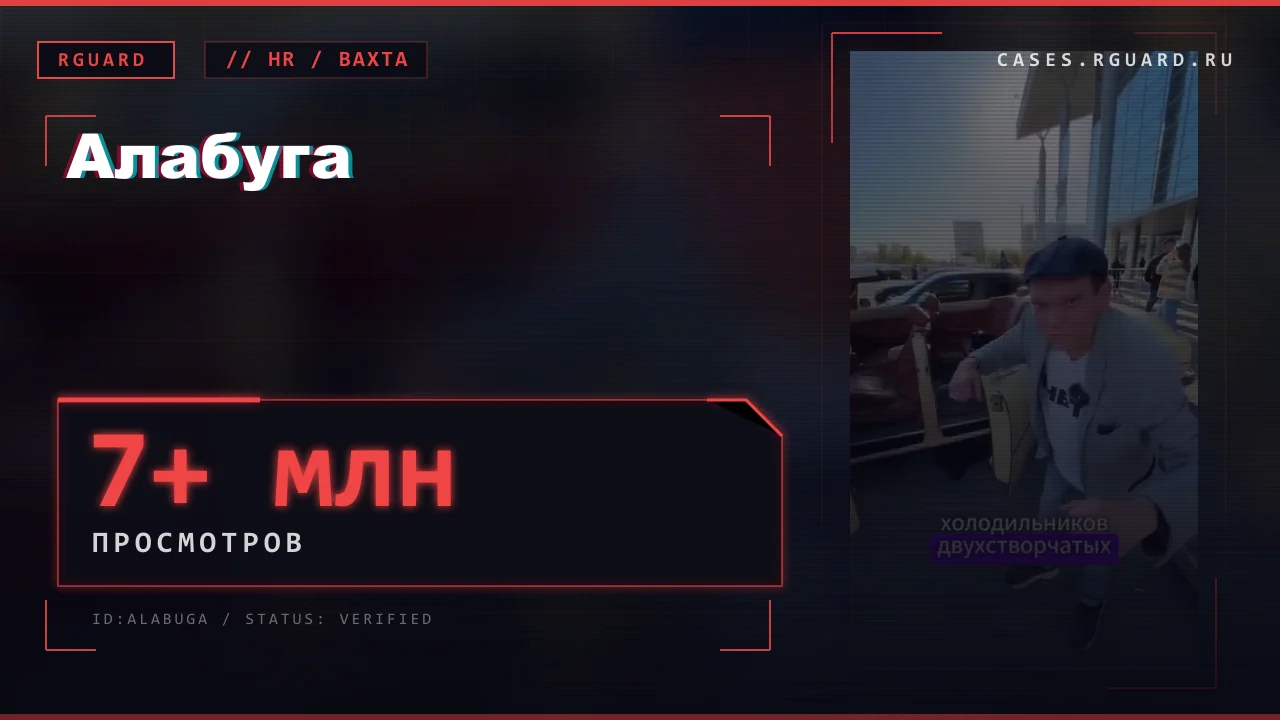
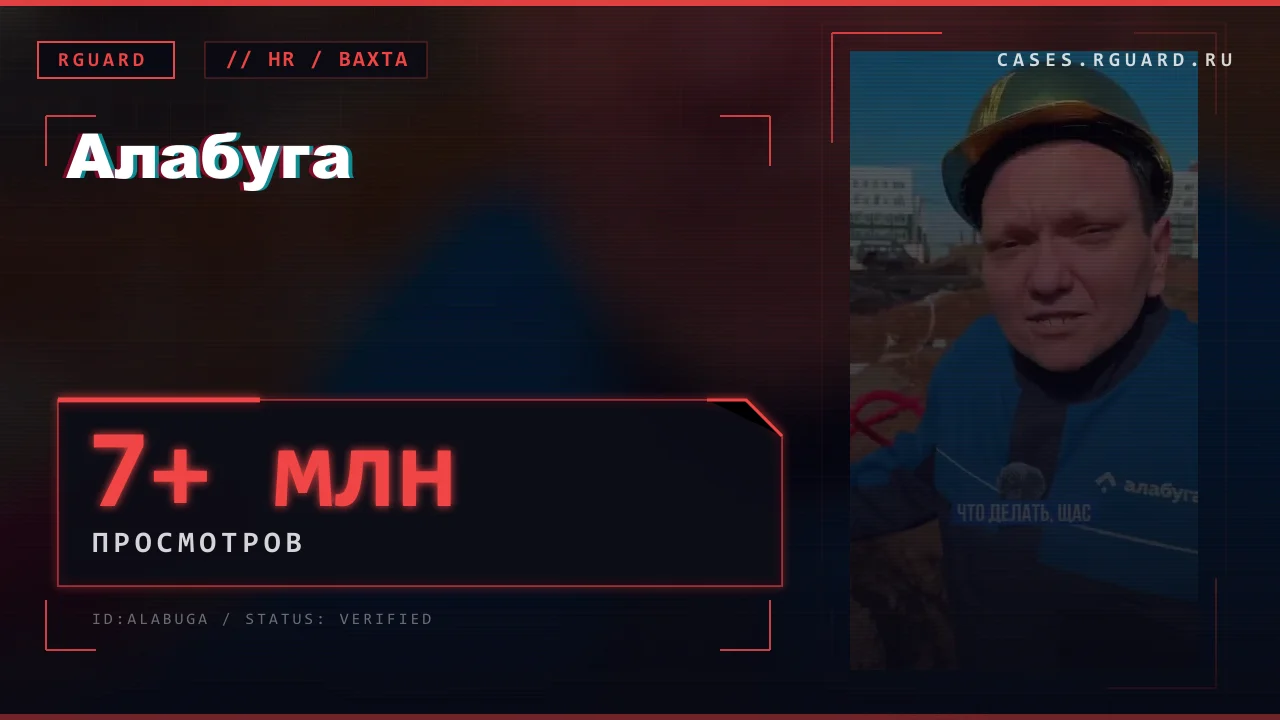
Fix Alabuga cover and mobile title wrapping

diff --git a/styles/globals.css b/styles/globals.css
@@ -267,10 +267,11 @@ a[href^="mailto:"], a[href^="tel:"] { word-break: break-all; }
 
 .about-title .hero-title-main,
 .about-title .hero-title-rest {
-  overflow-wrap: anywhere;
+  overflow-wrap: normal;
+  word-break: normal;
 }
 
-@media (max-width: 430px) {
+@media (max-width: 480px) {
   .hero-title {
     --hero-accent-size: clamp(1.5rem, 7.2vw, 1.8rem);
     --hero-rest-size: 1.55rem;
@@ -288,6 +289,16 @@ a[href^="mailto:"], a[href^="tel:"] { word-break: break-all; }
     padding: 0 .08em .04em;
     box-decoration-break: clone;
     -webkit-box-decoration-break: clone;
+  }
+  .about-title {
+    --hero-accent-size: clamp(2.05rem, 9.6vw, 2.55rem);
+    --hero-rest-size: clamp(1.7rem, 7.3vw, 2.05rem);
+    max-width: 100%;
+  }
+  .about-title .hero-title-main {
+    overflow-wrap: normal;
+    word-break: normal;
+    line-height: .86;
   }
 }
 
